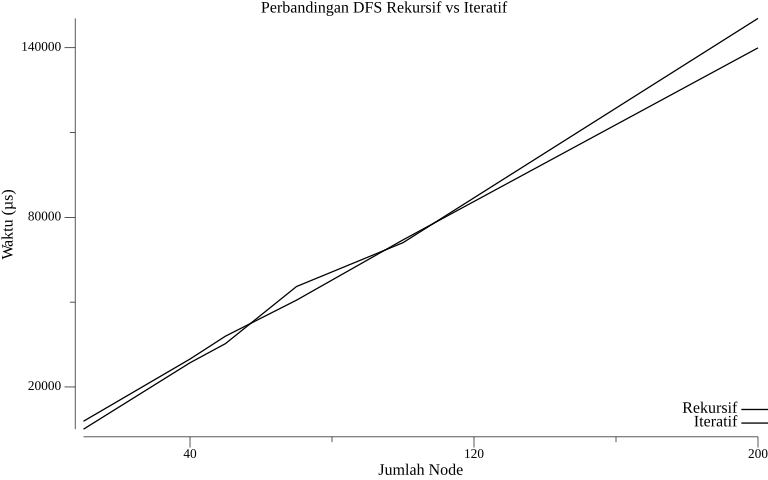
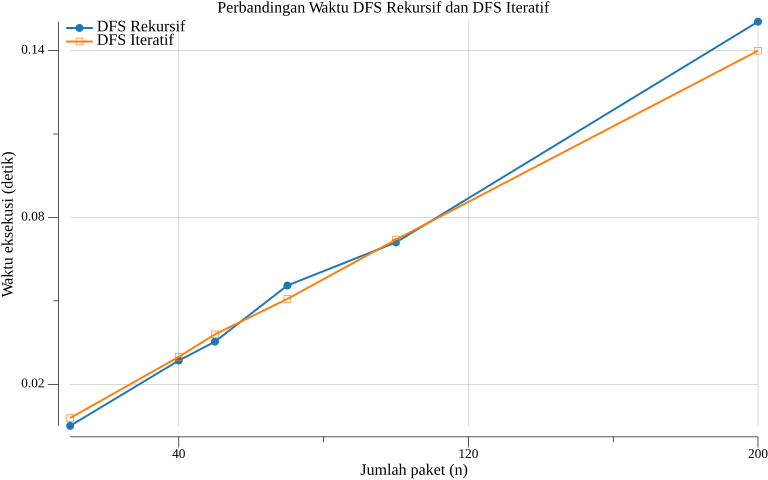
FINAL

diff --git a/grafik.go b/grafik.go
@@ -2,43 +2,92 @@ package main
 
 import (
 	"encoding/csv"
+	"image/color"
 	"os"
+	"sort"
 	"strconv"
 
 	"gonum.org/v1/plot"
 	"gonum.org/v1/plot/plotter"
 	"gonum.org/v1/plot/vg"
+	"gonum.org/v1/plot/vg/draw"
 )
 
 func main() {
-	file, _ := os.Open("data.csv")
+	file, err := os.Open("data.csv")
+	if err != nil {
+		panic(err)
+	}
 	defer file.Close()
 
 	reader := csv.NewReader(file)
-	records, _ := reader.ReadAll()
+	records, err := reader.ReadAll()
+	if err != nil {
+		panic(err)
+	}
 
 	rek := make(plotter.XYs, 0)
 	iter := make(plotter.XYs, 0)
 
 	for _, r := range records {
-		n, _ := strconv.ParseFloat(r[0], 64)
-		tr, _ := strconv.ParseFloat(r[1], 64)
-		ti, _ := strconv.ParseFloat(r[2], 64)
+		if len(r) < 3 {
+			continue
+		}
+
+		n, err1 := strconv.ParseFloat(r[0], 64)
+		tr, err2 := strconv.ParseFloat(r[1], 64)
+		ti, err3 := strconv.ParseFloat(r[2], 64)
+		if err1 != nil || err2 != nil || err3 != nil {
+			continue
+		}
+
+		tr = tr / 1e6
+		ti = ti / 1e6
 
 		rek = append(rek, plotter.XY{X: n, Y: tr})
 		iter = append(iter, plotter.XY{X: n, Y: ti})
 	}
 
+	sort.Slice(rek, func(i, j int) bool { return rek[i].X < rek[j].X })
+	sort.Slice(iter, func(i, j int) bool { return iter[i].X < iter[j].X })
+
 	p := plot.New()
-	p.Title.Text = "Perbandingan DFS Rekursif vs Iteratif"
-	p.X.Label.Text = "Jumlah Node"
-	p.Y.Label.Text = "Waktu (µs)"
+	p.Title.Text = "Perbandingan Waktu DFS Rekursif dan DFS Iteratif"
+	p.X.Label.Text = "Jumlah paket (n)"
+	p.Y.Label.Text = "Waktu eksekusi (detik)"
+
+	p.Add(plotter.NewGrid())
 
 	l1, _ := plotter.NewLine(rek)
 	l2, _ := plotter.NewLine(iter)
-	p.Add(l1, l2)
-	p.Legend.Add("Rekursif", l1)
-	p.Legend.Add("Iteratif", l2)
 
-	p.Save(8*vg.Inch, 5*vg.Inch, "grafik.png")
+	s1, _ := plotter.NewScatter(rek)
+	s2, _ := plotter.NewScatter(iter)
+
+	blue := color.RGBA{R: 31, G: 119, B: 180, A: 255}
+	orange := color.RGBA{R: 255, G: 127, B: 14, A: 255}
+
+	l1.Color = blue
+	l2.Color = orange
+	s1.Color = blue
+	s2.Color = orange
+
+	s1.GlyphStyle.Shape = draw.CircleGlyph{}
+	s2.GlyphStyle.Shape = draw.SquareGlyph{}
+	s1.GlyphStyle.Radius = vg.Points(3)
+	s2.GlyphStyle.Radius = vg.Points(3)
+
+	l1.Width = vg.Points(1.5)
+	l2.Width = vg.Points(1.5)
+
+	p.Legend.Top = true
+	p.Legend.Left = true
+
+	p.Add(l1, s1, l2, s2)
+	p.Legend.Add("DFS Rekursif", l1, s1)
+	p.Legend.Add("DFS Iteratif", l2, s2)
+
+	if err := p.Save(8*vg.Inch, 5*vg.Inch, "grafik.png"); err != nil {
+		panic(err)
+	}
 }

diff --git a/tubes.go b/tubes.go
@@ -42,7 +42,6 @@ func DFSIteratif(g Graph, start int, n int) {
 func benchmarkDFS(g Graph, start int) (int64, int64) {
 	const runs = 10000
 
-	// warm-up
 	{
 		visited := make(map[int]bool)
 		DFSRekursif(g, start, visited)
@@ -87,7 +86,6 @@ func main() {
 	fmt.Printf("DFS Rekursif : %d µs\n", rec)
 	fmt.Printf("DFS Iteratif : %d µs\n", iter)
 
-	// simpan ke CSV
 	f, _ := os.OpenFile("data.csv", os.O_CREATE|os.O_APPEND|os.O_WRONLY, 0644)
 	defer f.Close()
 	fmt.Fprintf(f, "%d,%d,%d\n", n, rec, iter)
